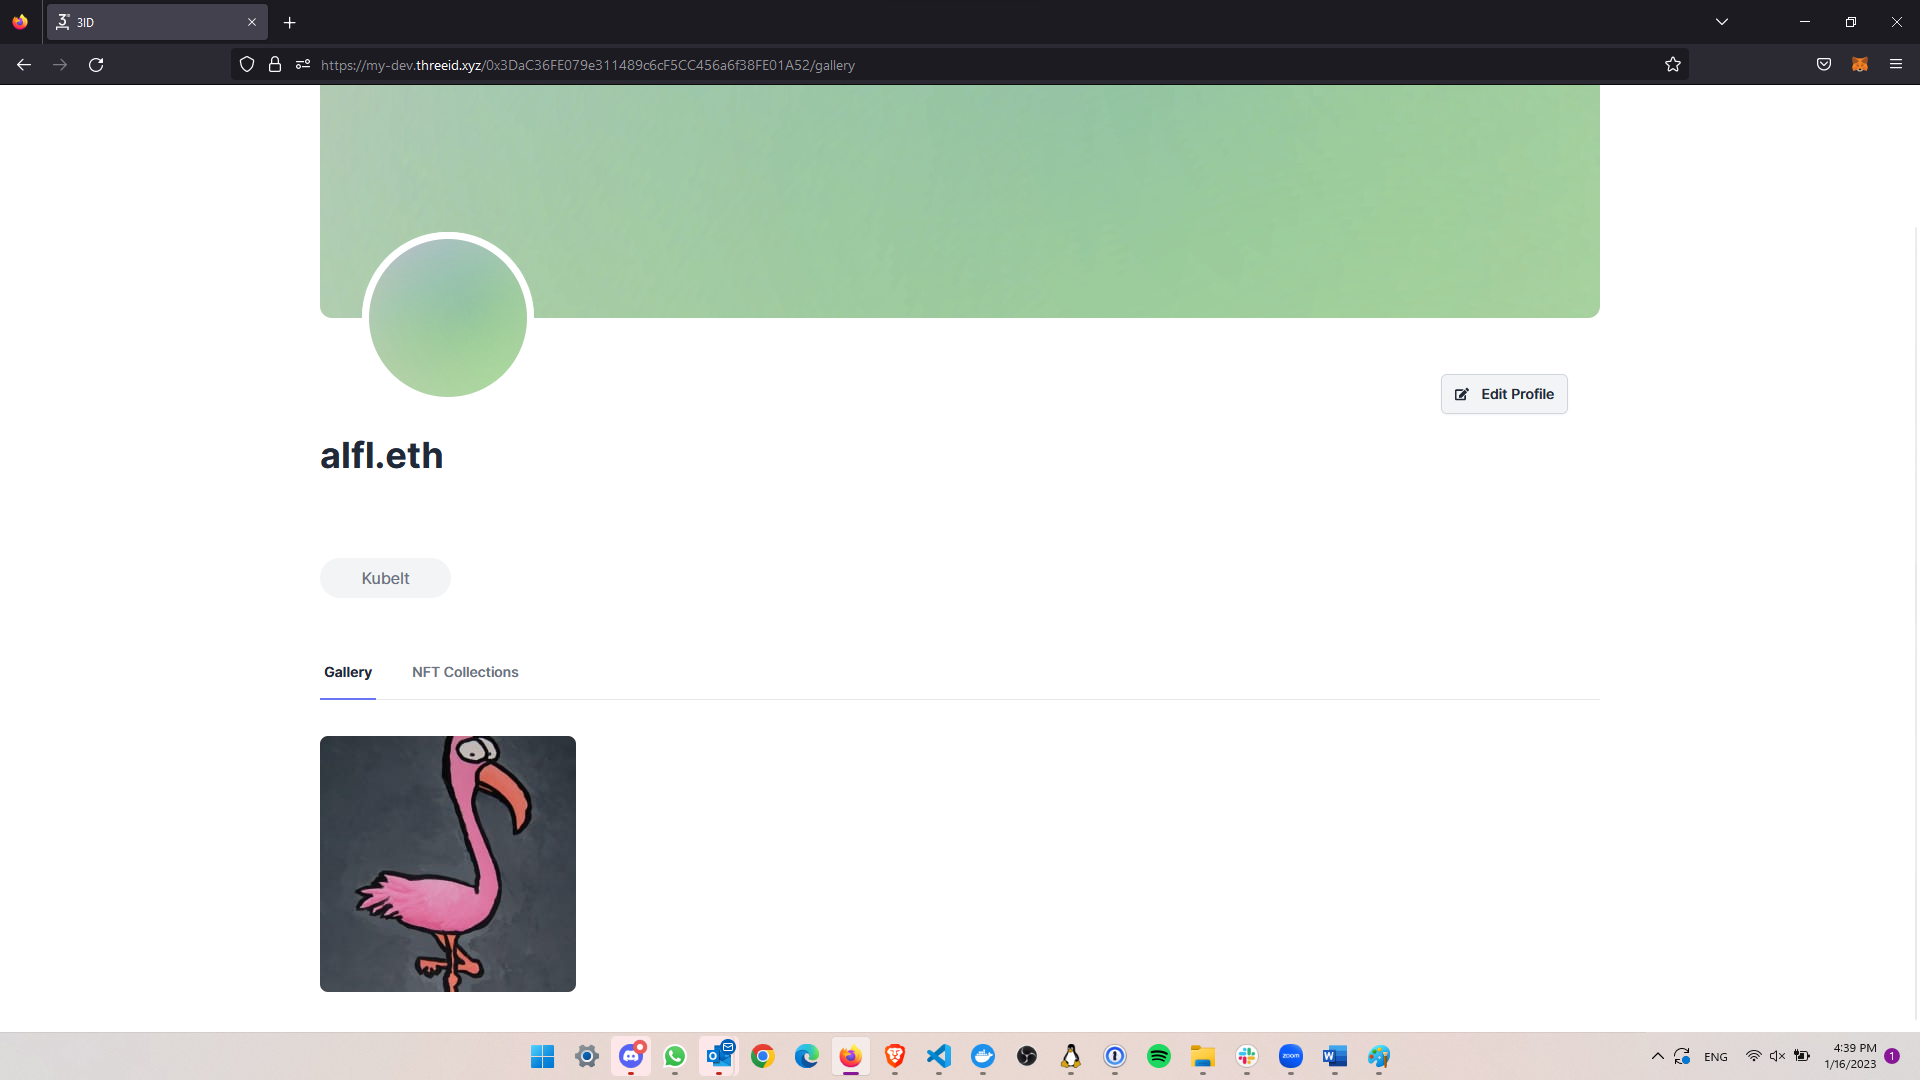
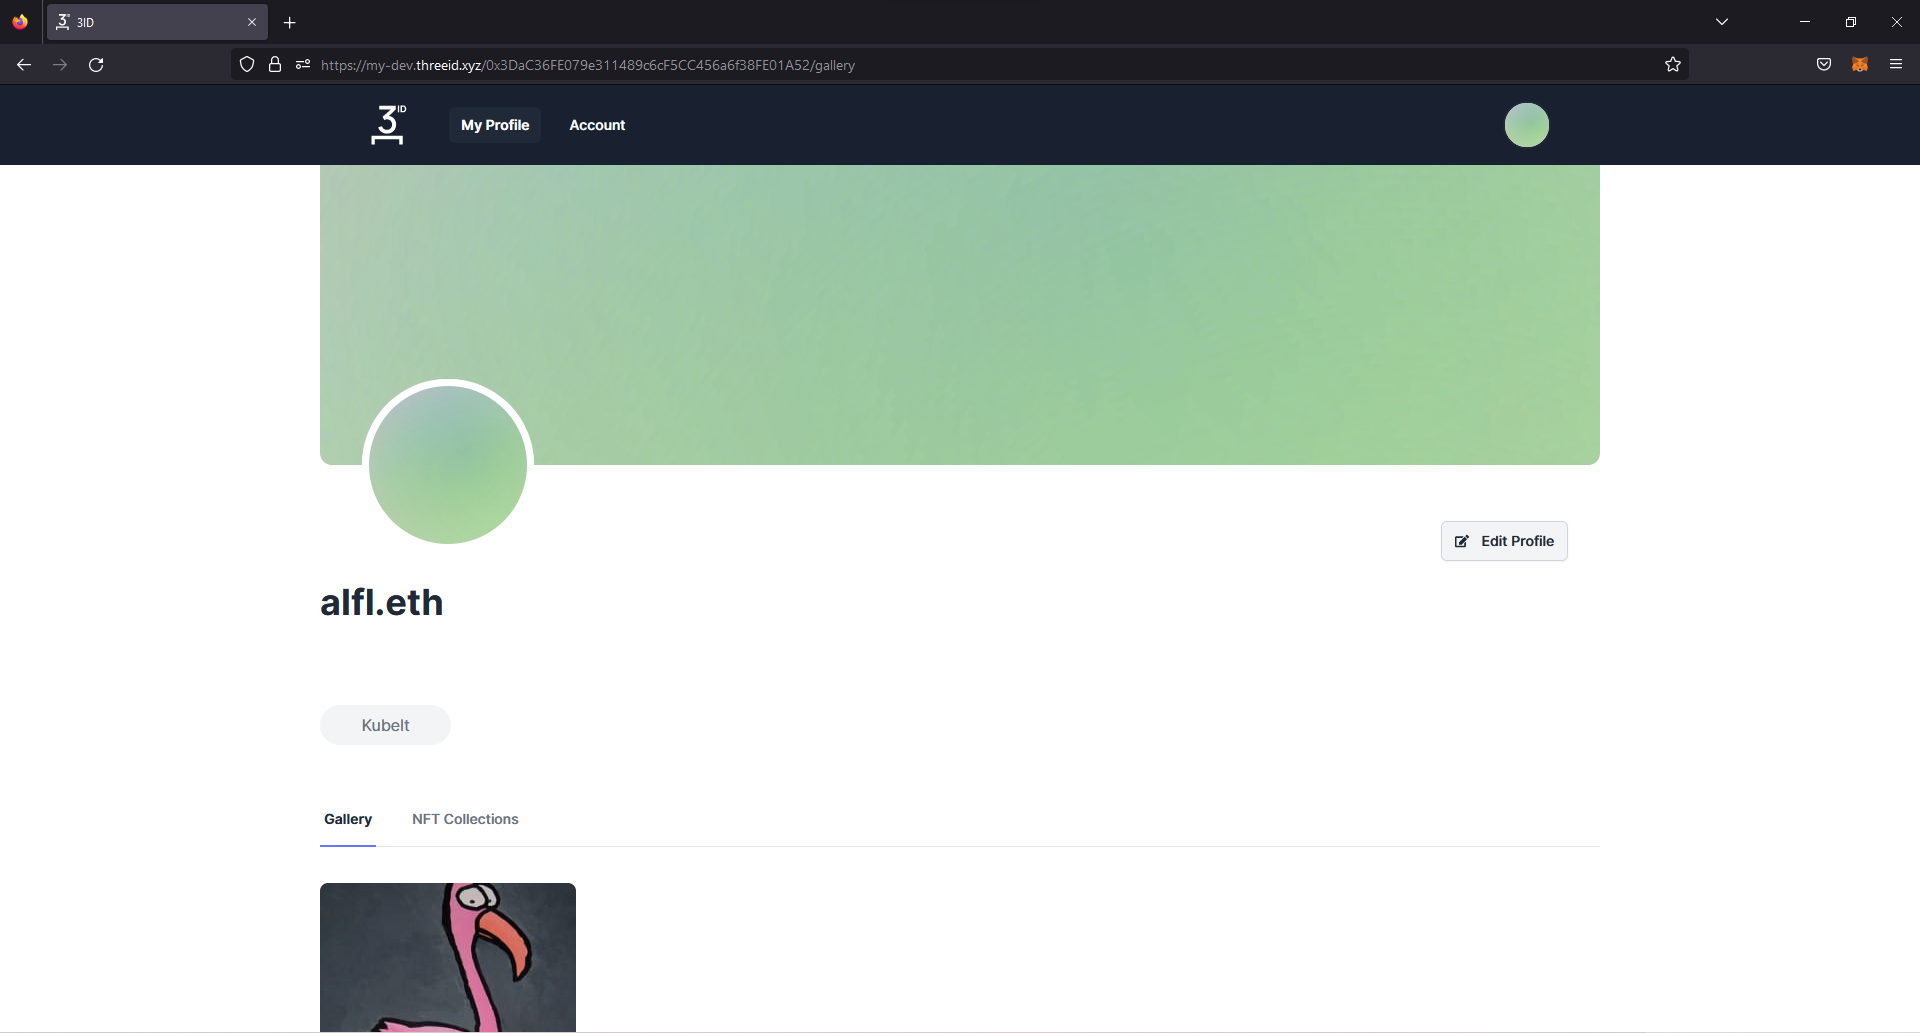
wip

diff --git a/docs/3id/guides/profile-setup.md b/docs/3id/guides/profile-setup.md
@@ -49,3 +49,9 @@ Let's add a link to our public profile page. In the tabs at the top of the page,
 Click **+ Add Link**, enter the information for a link, and hit _enter_ or select **Save**.
 
 ![Progress on the link settings page.](../img/profile-walkthrough/account-settings-links-done-ss.png)
+
+## Select "My Profile"
+
+At the top of the page select "My Profile". This will take you back to your public profile page. Notice that you profile now displays a new link.
+
+![A new link!](../img/profile-walkthrough/profile-done-ss.png)
